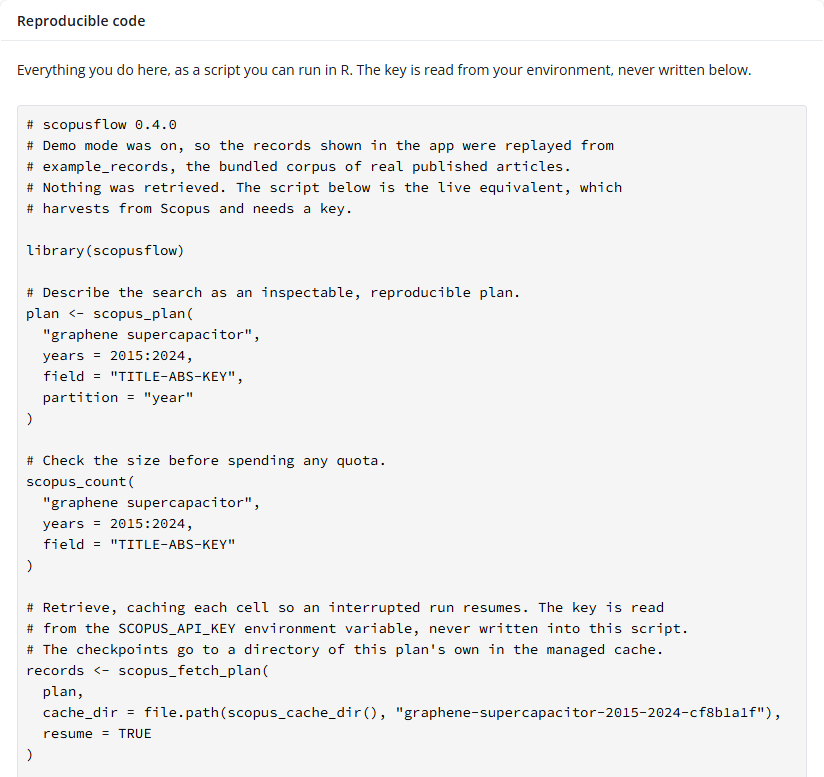
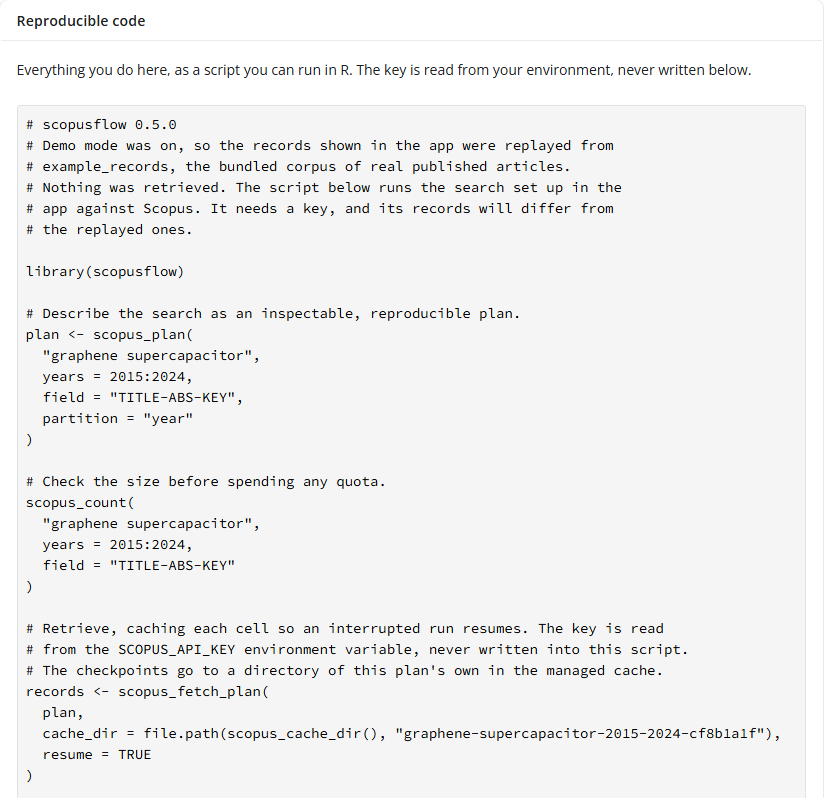
Correct the app's demo note and key statement, and tidy after 0.5.0
In demo mode, the script that run_app() writes called itself the live
equivalent of the replayed records. Those came from OpenAlex's exact-phrase
search, while the app's default search is unquoted, and any search typed in
the app differs from them in any case. The note now says that the script runs
the search set up in the app against Scopus and that its records will differ.
The app article's picture of the script is retaken from the app as it now
stands (0.5.0, demo mode, default inputs), and its alt text follows.

The README, the app article and the app's source said that the API key never
leaves the machine. It goes to Elsevier's API, as the Python twin now says.

The example of scopus_search_report() and the plans-and-quota article set the
version attribute to 0.3.0 by hand. They now record the installed version.

CITATION.cff's abstract had drifted from the Description field and now follows
it. The cran-tarball workflow turns on the spelling check of CRAN's incoming
checks (_R_CHECK_CRAN_INCOMING_USE_ASPELL_), which R leaves off by default.

diff --git a/NEWS.md b/NEWS.md
@@ -1,3 +1,20 @@
+# scopusflow (development version)
+
+## Minor improvements
+
+* In demo mode, the script that `run_app()` writes says that it runs the search
+  set up in the app against 'Scopus' and that its records will differ from the
+  replayed ones, where it called itself the live equivalent of records that
+  came from another search.
+
+## Documentation
+
+* The README, the app article and the app's source say that the API key goes
+  only to Elsevier's API, where they said that it never leaves the machine.
+* The example of `scopus_search_report()` and the plans-and-quota article record
+  the installed version of scopusflow, where they recorded 0.3.0. The app
+  article's picture of the script shows 0.5.0 and the new demo note.
+
 # scopusflow 0.5.0
 
 A release about retrieving more of a search and about the accuracy of what it

diff --git a/README.md b/README.md
@@ -122,9 +122,9 @@ how a literature changes between retrievals.
 `run_app()` opens a local Shiny app that lets you run the whole workflow
 without writing code. Because it shows every choice as a runnable R
 script, the app is also a way into the package. It runs on your own
-machine, so your API key never leaves it. A demo mode lets you try the
-workflow with no key, on the harvest of real articles bundled with the
-package.
+machine, so your API key goes only to Elsevier's API. A demo mode lets
+you try the workflow with no key, on the harvest of real articles
+bundled with the package.
 
 ``` r
 run_app()
